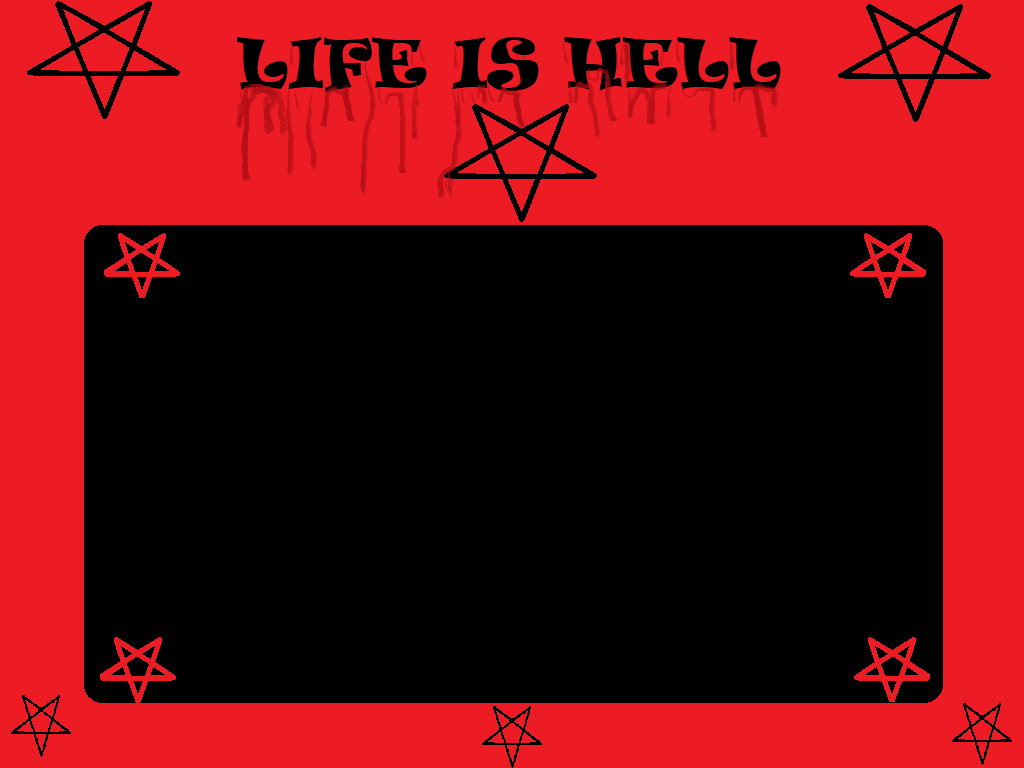
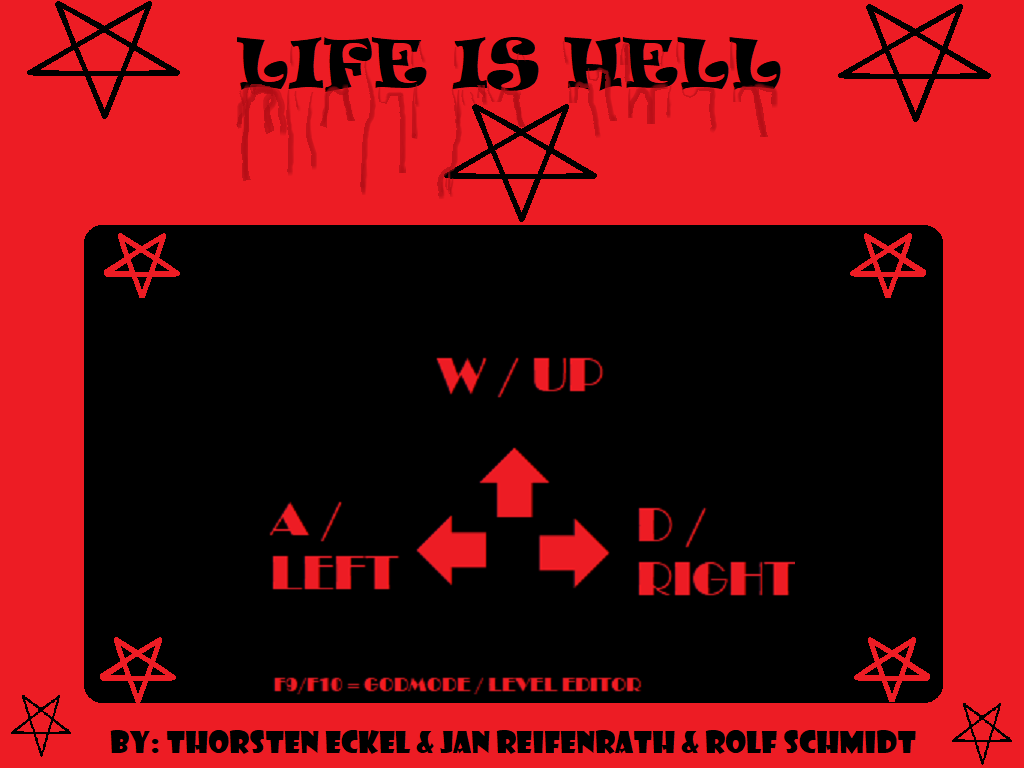
Added credits and control info.

diff --git a/game/scene/intro.js b/game/scene/intro.js
@@ -11,8 +11,8 @@ class SceneIntro extends Phaser.Scene {
 
         //  A simple background for our game
         this.add.image(512, 384, 'intro_sky');
-        var play = this.add.image(512, 384, 'intro_play');
 
+        var play = this.add.image(512, 270, 'intro_play');
         play.setInteractive();
 
         this.input.on('gameobjectdown', this.onClick, this);

diff --git a/game.js b/game.js
@@ -2,7 +2,7 @@ var config = {
     type: Phaser.AUTO,
     width: 1024,
     height: 768,
-    devMode: true,
+    devMode: false,
     physics: {
         default: 'arcade',
         arcade: {
